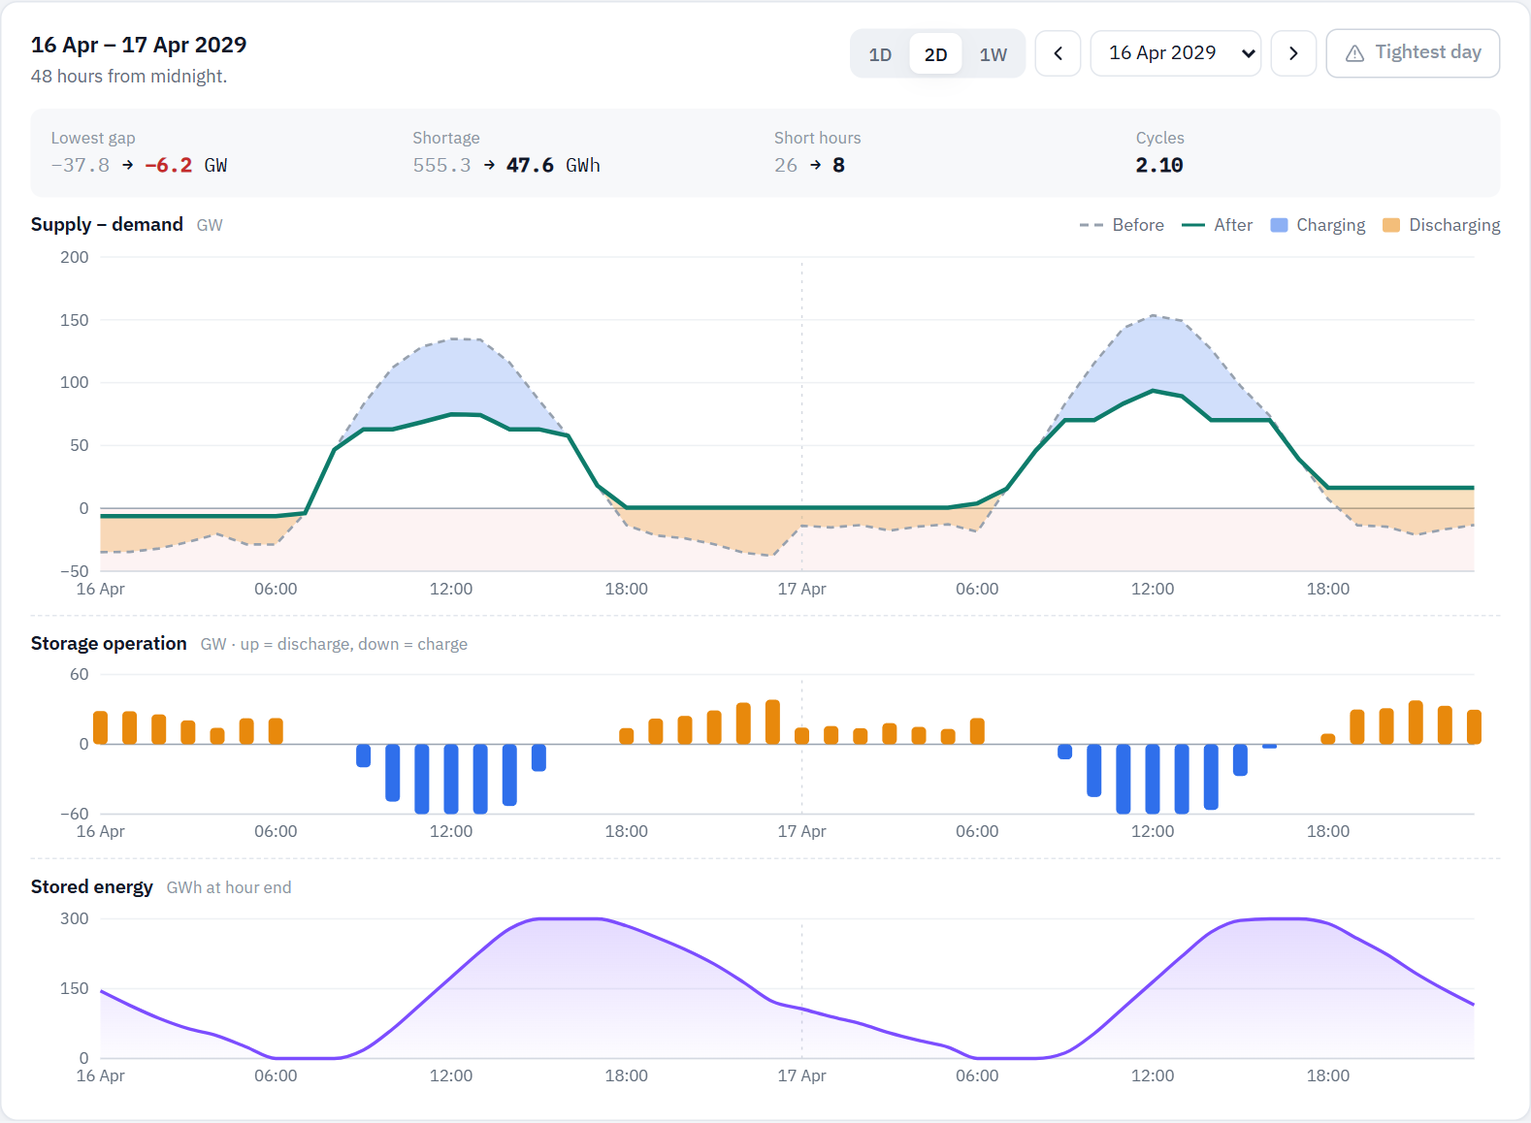
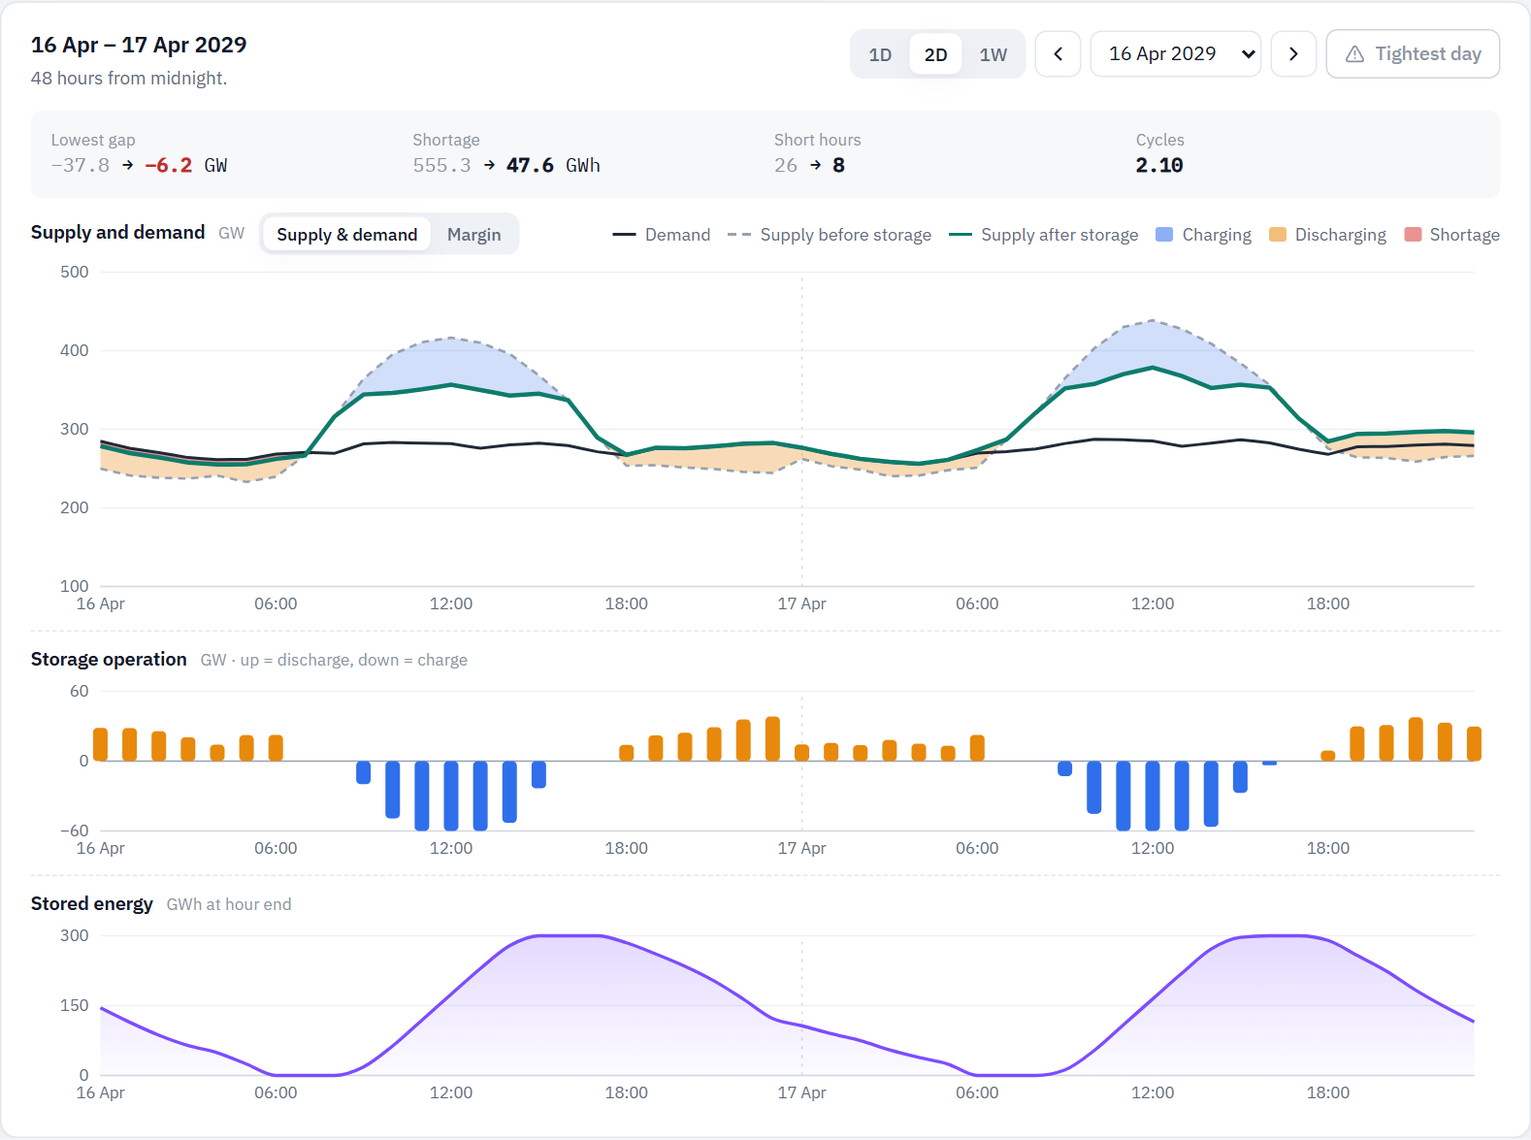
Show supply and demand directly in the hourly chart
The top hourly chart plotted the supply − demand margin but labelled its
lines "Before" and "After", which read as supply, and a faint red shortage
zone below zero blended with the orange discharge band.

It now defaults to a "Supply & demand" view: demand, available supply
before storage, supply after storage, blue/orange bands for charging and
discharging, and red only where supply after storage is still below
demand. The margin view stays one click away, clearly labelled, with the
zero line explained in the title instead of a tint. One tooltip gives
demand, supply before, storage action, supply after and the margin. The
duration curve drops its tint and is labelled as a margin too.

diff --git a/frontend/src/components/DayDetail.tsx b/frontend/src/components/DayDetail.tsx
@@ -1,16 +1,20 @@
 import { ChevronLeft, ChevronRight, TriangleAlert } from "lucide-react";
 import { memo, useEffect, useMemo, useState } from "react";
 import {
-  Area, Bar, CartesianGrid, Cell, ComposedChart, Line, ReferenceArea, ReferenceLine,
+  Area, Bar, CartesianGrid, Cell, ComposedChart, Line, ReferenceLine,
   ResponsiveContainer, Tooltip, XAxis, YAxis,
 } from "recharts";
-import { residualPoints } from "../chartData";
+import { levelPoints, residualPoints } from "../chartData";
 import { dayLabel, num, shortDay } from "../format";
 import { WINDOW_OPTIONS, clampStart, tightestDate, windowRows, type WindowDays } from "../timeWindow";
 import type { HourlyResult, RunResult } from "../types";
 
 const MARGIN = { top: 10, right: 18, left: 0, bottom: 0 };
 const MORPH_MS = 650;
+
+export type GapView = "levels" | "margin";
+
+type Scale = { domain: [number, number]; ticks: number[] };
 
 function useMedia(query: string) {
   const [matches, setMatches] = useState(() => window.matchMedia(query).matches);
@@ -70,9 +74,14 @@ function HourTooltip({ active, label, rows, kind }: {
       <strong>{dayLabel(row.timestamp.slice(0, 10))} · {row.timestamp.slice(11, 16)}</strong>
       {kind === "gap" ? (
         <>
-          <div><span><i className="line-key is-before" />Before storage</span><b>{num(row.raw_gap_gw, 2)} GW</b></div>
-          <div><span><i className="line-key is-after" />After storage</span><b>{num(row.residual_gap_gw, 2)} GW</b></div>
-          <div className="tooltip-sub"><span>Demand · supply</span><b>{num(row.demand_gw, 1)} · {num(row.supply_gw, 1)} GW</b></div>
+          <div><span><i className="line-key is-demand" />Demand</span><b>{num(row.demand_gw, 1)} GW</b></div>
+          <div><span><i className="line-key is-before" />Supply before storage</span><b>{num(row.supply_gw, 1)} GW</b></div>
+          <div><span><i className={`dot-key ${row.dispatch_gw < 0 ? "is-charge" : "is-discharge"}`} />
+            {row.dispatch_gw < -1e-6 ? "Storage charging" : row.dispatch_gw > 1e-6 ? "Storage discharging" : "Storage idle"}</span>
+            <b>{row.dispatch_gw < -1e-6 ? "−" : row.dispatch_gw > 1e-6 ? "+" : ""}{num(Math.abs(row.dispatch_gw), 1)} GW</b></div>
+          <div><span><i className="line-key is-after" />Supply after storage</span><b>{num(row.adjusted_supply_gw, 1)} GW</b></div>
+          <div className="tooltip-sub"><span>Margin (supply − demand)</span>
+            <b><span className="was">{num(row.raw_gap_gw, 1)}</span> → <span className={row.residual_gap_gw < -1e-6 ? "negative" : ""}>{num(row.residual_gap_gw, 1)}</span> GW</b></div>
         </>
       ) : kind === "dispatch" ? (
         <div><span><i className={`dot-key ${row.dispatch_gw < 0 ? "is-charge" : "is-discharge"}`} />{row.dispatch_gw < 0 ? "Charging" : row.dispatch_gw > 0 ? "Discharging" : "Idle"}</span>
@@ -89,13 +98,14 @@ function HourTooltip({ active, label, rows, kind }: {
  * a given window length, so stepping between dates morphs the lines, bands
  * and bars from one period to the next instead of redrawing them.
  */
-const WindowCharts = memo(function WindowCharts({ rows, days, result, gapScale }: {
-  rows: HourlyResult[]; days: WindowDays; result: RunResult; gapScale: { domain: [number, number]; ticks: number[] };
+const WindowCharts = memo(function WindowCharts({ rows, days, result, view, onView, gapScale, levelScale }: {
+  rows: HourlyResult[]; days: WindowDays; result: RunResult; view: GapView; onView: (view: GapView) => void;
+  gapScale: Scale; levelScale: Scale;
 }) {
-  const gapDomain = gapScale.domain;
   const reduced = useReducedMotion();
   const narrow = useMedia("(max-width: 640px)");
   const residual = useMemo(() => residualPoints(rows), [rows]);
+  const levels = useMemo(() => levelPoints(rows), [rows]);
   const hourly = useMemo(() => rows.map((row, hour) => ({ ...row, hour })), [rows]);
   const every = (days === 1 ? 3 : days === 2 ? 6 : 24) * (narrow && days !== 7 ? 2 : 1);
   const ticks = hourly.filter((_, index) => index % every === 0).map((row) => row.hour);
@@ -124,28 +134,60 @@ const WindowCharts = memo(function WindowCharts({ rows, days, result, gapScale }
     <div className="day-charts">
       <div className="lane">
         <div className="lane-head">
-          <h4>Supply − demand <small>GW</small></h4>
-          <div className="legend-inline" aria-hidden="true">
-            <span><i className="line-key is-before" />Before</span>
-            <span><i className="line-key is-after" />After</span>
-            <span><i className="band-key is-charge" />Charging</span>
-            <span><i className="band-key is-discharge" />Discharging</span>
+          <div className="lane-title">
+            <h4>{view === "levels" ? "Supply and demand" : "Margin"} <small>{view === "levels" ? "GW" : "supply − demand, GW · below 0 is a shortage"}</small></h4>
+            <div className="segmented is-small" role="tablist" aria-label="Top chart">
+              <button type="button" role="tab" aria-selected={view === "levels"} onClick={() => onView("levels")}>Supply &amp; demand</button>
+              <button type="button" role="tab" aria-selected={view === "margin"} onClick={() => onView("margin")}>Margin</button>
+            </div>
           </div>
+          {view === "levels" ? (
+            <div className="legend-inline" aria-hidden="true">
+              <span><i className="line-key is-demand" />Demand</span>
+              <span><i className="line-key is-before" />Supply before storage</span>
+              <span><i className="line-key is-after" />Supply after storage</span>
+              <span><i className="band-key is-charge" />Charging</span>
+              <span><i className="band-key is-discharge" />Discharging</span>
+              <span><i className="band-key is-shortage" />Shortage</span>
+            </div>
+          ) : (
+            <div className="legend-inline" aria-hidden="true">
+              <span><i className="line-key is-before" />Margin before storage</span>
+              <span><i className="line-key is-after" />Margin after storage</span>
+              <span><i className="band-key is-charge" />Charging</span>
+              <span><i className="band-key is-discharge" />Discharging</span>
+            </div>
+          )}
         </div>
         <ResponsiveContainer width="100%" height={250}>
-          <ComposedChart data={residual} {...common}>
-            <CartesianGrid stroke="var(--grid)" vertical={false} />
-            {gapDomain[0] < 0 ? <ReferenceArea y1={gapDomain[0]} y2={0} fill="var(--c-deficit)" fillOpacity={0.06} /> : null}
-            {dayLines}
-            <XAxis {...xAxis} />
-            <YAxis {...yAxis} domain={gapDomain} ticks={gapScale.ticks} allowDataOverflow />
-            <ReferenceLine y={0} stroke="var(--axis-strong)" />
-            <Area type="linear" dataKey="chargingBand" fill="var(--c-charge)" fillOpacity={0.22} stroke="none" activeDot={false} {...motion} />
-            <Area type="linear" dataKey="dischargingBand" fill="var(--c-discharge)" fillOpacity={0.26} stroke="none" activeDot={false} {...motion} />
-            <Line type="linear" dataKey="raw_gap_gw" stroke="var(--c-before)" strokeWidth={1.75} strokeDasharray="5 4" dot={false} activeDot={{ r: 4 }} {...motion} />
-            <Line type="linear" dataKey="residual_gap_gw" stroke="var(--c-after)" strokeWidth={3} dot={false} activeDot={{ r: 5, stroke: "var(--surface)", strokeWidth: 2 }} {...motion} />
-            <Tooltip content={<HourTooltip rows={rows} kind="gap" />} cursor={cursor} />
-          </ComposedChart>
+          {view === "levels" ? (
+            <ComposedChart data={levels} {...common}>
+              <CartesianGrid stroke="var(--grid)" vertical={false} />
+              {dayLines}
+              <XAxis {...xAxis} />
+              <YAxis {...yAxis} domain={levelScale.domain} ticks={levelScale.ticks} allowDataOverflow />
+              <Area type="linear" dataKey="chargingBand" fill="var(--c-charge)" fillOpacity={0.22} stroke="none" activeDot={false} {...motion} />
+              <Area type="linear" dataKey="dischargingBand" fill="var(--c-discharge)" fillOpacity={0.3} stroke="none" activeDot={false} {...motion} />
+              <Area type="linear" dataKey="shortageBand" fill="var(--c-deficit)" fillOpacity={0.55} stroke="none" activeDot={false} {...motion} />
+              <Line type="linear" dataKey="supply_gw" stroke="var(--c-before)" strokeWidth={1.75} strokeDasharray="5 4" dot={false} activeDot={{ r: 4 }} {...motion} />
+              <Line type="linear" dataKey="demand_gw" stroke="var(--c-demand)" strokeWidth={2} dot={false} activeDot={{ r: 4 }} {...motion} />
+              <Line type="linear" dataKey="adjusted_supply_gw" stroke="var(--c-after)" strokeWidth={3} dot={false} activeDot={{ r: 5, stroke: "var(--surface)", strokeWidth: 2 }} {...motion} />
+              <Tooltip content={<HourTooltip rows={rows} kind="gap" />} cursor={cursor} />
+            </ComposedChart>
+          ) : (
+            <ComposedChart data={residual} {...common}>
+              <CartesianGrid stroke="var(--grid)" vertical={false} />
+              {dayLines}
+              <XAxis {...xAxis} />
+              <YAxis {...yAxis} domain={gapScale.domain} ticks={gapScale.ticks} allowDataOverflow />
+              <ReferenceLine y={0} stroke="var(--axis-strong)" strokeWidth={1.5} />
+              <Area type="linear" dataKey="chargingBand" fill="var(--c-charge)" fillOpacity={0.22} stroke="none" activeDot={false} {...motion} />
+              <Area type="linear" dataKey="dischargingBand" fill="var(--c-discharge)" fillOpacity={0.3} stroke="none" activeDot={false} {...motion} />
+              <Line type="linear" dataKey="raw_gap_gw" stroke="var(--c-before)" strokeWidth={1.75} strokeDasharray="5 4" dot={false} activeDot={{ r: 4 }} {...motion} />
+              <Line type="linear" dataKey="residual_gap_gw" stroke="var(--c-after)" strokeWidth={3} dot={false} activeDot={{ r: 5, stroke: "var(--surface)", strokeWidth: 2 }} {...motion} />
+              <Tooltip content={<HourTooltip rows={rows} kind="gap" />} cursor={cursor} />
+            </ComposedChart>
+          )}
         </ResponsiveContainer>
       </div>
 
@@ -212,6 +254,16 @@ export function DayDetail({ result, dates, start, days, onStart, onDays }: {
     }
     return niceScale(low, high);
   }, [result.hourly]);
+  const levelScale = useMemo(() => {
+    let low = Infinity;
+    let high = -Infinity;
+    for (const row of result.hourly) {
+      low = Math.min(low, row.demand_gw, row.supply_gw, row.adjusted_supply_gw);
+      high = Math.max(high, row.demand_gw, row.supply_gw, row.adjusted_supply_gw);
+    }
+    return niceScale(low, high);
+  }, [result.hourly]);
+  const [view, setView] = useState<GapView>("levels");
   const index = dates.indexOf(start);
   const last = Math.max(0, dates.length - days);
   const eta = Math.sqrt(result.storage.rte);
@@ -264,7 +316,7 @@ export function DayDetail({ result, dates, start, days, onStart, onDays }: {
         <div><dt>Short hours</dt><dd><span className="was">{stats.hoursBefore}</span> → <b>{stats.hoursAfter}</b></dd></div>
         <div><dt>Cycles</dt><dd><b>{num(stats.cycles, 2)}</b></dd></div>
       </dl>
-      <WindowCharts rows={rows} days={days} result={result} gapScale={gapScale} />
+      <WindowCharts rows={rows} days={days} result={result} view={view} onView={setView} gapScale={gapScale} levelScale={levelScale} />
     </section>
   );
 }

diff --git a/frontend/src/chartData.ts b/frontend/src/chartData.ts
@@ -1,7 +1,7 @@
 import type { HourlyResult } from "./types";
 
 export type ResidualPoint = {
-  /** Position within the plotted day: 0 = first hour (06:00 on an accounting day). */
+  /** Position within the plotted window: 0 = the first hour. */
   hour: number;
   raw_gap_gw: number;
   residual_gap_gw: number;
@@ -9,30 +9,78 @@ export type ResidualPoint = {
   dischargingBand: [number, number];
 };
 
-function point(hour: number, before: number, after: number): ResidualPoint {
+export type LevelPoint = {
+  hour: number;
+  demand_gw: number;
+  supply_gw: number;
+  adjusted_supply_gw: number;
+  chargingBand: [number, number];
+  dischargingBand: [number, number];
+  /** Between supply after storage and demand, where supply still falls short. */
+  shortageBand: [number, number];
+};
+
+function bands(before: number, after: number) {
   return {
-    hour, raw_gap_gw: before, residual_gap_gw: after,
-    chargingBand: after < before ? [after, before] : [before, before],
-    dischargingBand: after > before ? [before, after] : [before, before],
+    chargingBand: (after < before ? [after, before] : [before, before]) as [number, number],
+    dischargingBand: (after > before ? [before, after] : [before, before]) as [number, number],
   };
 }
 
-export function residualPoints(rows: HourlyResult[]): ResidualPoint[] {
-  const points: ResidualPoint[] = [];
+/**
+ * Hourly vertices plus one extra vertex per segment: at the exact point where
+ * storage switches between charging and discharging (so the blue and orange
+ * bands meet without overlapping), otherwise at the midpoint. The constant
+ * point count lets charts morph smoothly between windows of equal length.
+ * Extra vertices are for drawing only; tooltips always read the hourly rows.
+ */
+function withCrossings<T>(
+  rows: HourlyResult[],
+  change: (row: HourlyResult) => number,
+  make: (hour: number, row: HourlyResult, next: HourlyResult | undefined, fraction: number, crossing: boolean) => T,
+): T[] {
+  const points: T[] = [];
   rows.forEach((row, hour) => {
-    points.push(point(hour, row.raw_gap_gw, row.residual_gap_gw));
+    points.push(make(hour, row, undefined, 0, false));
     const next = rows[hour + 1];
     if (!next) return;
-    const delta = row.residual_gap_gw - row.raw_gap_gw;
-    const nextDelta = next.residual_gap_gw - next.raw_gap_gw;
+    const delta = change(row);
+    const nextDelta = change(next);
     const crossing = delta * nextDelta < 0;
-    const fraction = crossing ? delta / (delta - nextDelta) : 0.5;
-    const before = row.raw_gap_gw + fraction * (next.raw_gap_gw - row.raw_gap_gw);
-    const after = crossing ? before : row.residual_gap_gw + fraction * (next.residual_gap_gw - row.residual_gap_gw);
-    // An exact crossing splits the two colours without overlap. A midpoint on
-    // other segments keeps the same point count for smooth day-to-day morphs.
-    // These are drawing vertices only; tooltips always use actual hourly data.
-    points.push(point(hour + fraction, before, after));
+    points.push(make(hour, row, next, crossing ? delta / (delta - nextDelta) : 0.5, crossing));
   });
   return points;
+}
+
+const lerp = (a: number, b: number, t: number) => a + t * (b - a);
+
+/** Supply − demand margin before and after storage. */
+export function residualPoints(rows: HourlyResult[]): ResidualPoint[] {
+  return withCrossings(rows, (row) => row.residual_gap_gw - row.raw_gap_gw, (hour, row, next, fraction, crossing) => {
+    if (!next) {
+      return { hour, raw_gap_gw: row.raw_gap_gw, residual_gap_gw: row.residual_gap_gw, ...bands(row.raw_gap_gw, row.residual_gap_gw) };
+    }
+    const before = lerp(row.raw_gap_gw, next.raw_gap_gw, fraction);
+    const after = crossing ? before : lerp(row.residual_gap_gw, next.residual_gap_gw, fraction);
+    return { hour: hour + fraction, raw_gap_gw: before, residual_gap_gw: after, ...bands(before, after) };
+  });
+}
+
+/** Demand, supply before storage and supply after storage, in GW. */
+export function levelPoints(rows: HourlyResult[]): LevelPoint[] {
+  return withCrossings(rows, (row) => row.adjusted_supply_gw - row.supply_gw, (hour, row, next, fraction, crossing) => {
+    const at = (key: "demand_gw" | "supply_gw" | "adjusted_supply_gw") =>
+      next ? lerp(row[key], next[key], fraction) : row[key];
+    const demand = at("demand_gw");
+    const before = at("supply_gw");
+    const after = crossing ? before : at("adjusted_supply_gw");
+    return {
+      hour: hour + fraction,
+      demand_gw: demand,
+      supply_gw: before,
+      adjusted_supply_gw: after,
+      ...bands(before, after),
+      shortageBand: after < demand ? [after, demand] : [demand, demand],
+    };
+  });
 }

diff --git a/frontend/src/components/DurationCurve.tsx b/frontend/src/components/DurationCurve.tsx
@@ -1,6 +1,6 @@
 import { useMemo } from "react";
 import {
-  Area, CartesianGrid, ComposedChart, Line, ReferenceArea, ReferenceLine,
+  Area, CartesianGrid, ComposedChart, Line, ReferenceLine,
   ResponsiveContainer, Tooltip, XAxis, YAxis,
 } from "recharts";
 import { num } from "../format";
@@ -27,18 +27,17 @@ export function DurationCurve({ hourly }: { hourly: HourlyResult[] }) {
   const hours = hourly.length;
   const shortBefore = hourly.filter((row) => row.raw_gap_gw < -1e-6).length;
   const shortAfter = hourly.filter((row) => row.residual_gap_gw < -1e-6).length;
-  const low = Math.min(points[points.length - 1].before, points[points.length - 1].after);
 
   return (
     <section className="panel" aria-labelledby="duration-title">
       <header className="panel-head">
         <div>
           <h3 id="duration-title">Duration curve</h3>
-          <p>Every hour sorted from largest surplus to deepest shortage.</p>
+          <p>Supply − demand margin for every hour, sorted from largest surplus to deepest shortage. Below 0 is a shortage.</p>
         </div>
         <div className="legend-inline" aria-hidden="true">
-          <span><i className="line-key is-before" />Before</span>
-          <span><i className="line-key is-after" />After</span>
+          <span><i className="line-key is-before" />Before storage</span>
+          <span><i className="line-key is-after" />After storage</span>
         </div>
       </header>
       <div className="duration-callouts">
@@ -56,13 +55,12 @@ export function DurationCurve({ hourly }: { hourly: HourlyResult[] }) {
             </linearGradient>
           </defs>
           <CartesianGrid stroke="var(--grid)" vertical={false} />
-          {low < 0 ? <ReferenceArea y1={low * 1.08} y2={0} fill="var(--c-deficit)" fillOpacity={0.07} ifOverflow="extendDomain" /> : null}
           <XAxis dataKey="share" type="number" domain={[0, 100]} ticks={[0, 25, 50, 75, 100]}
             tickFormatter={(value: number) => `${value}%`} tick={{ fontSize: 11, fill: "var(--muted)" }}
             axisLine={{ stroke: "var(--axis)" }} tickLine={false} />
           <YAxis width={48} tick={{ fontSize: 11, fill: "var(--muted)" }} tickFormatter={(value: number) => num(value, 0)}
             axisLine={false} tickLine={false} domain={["auto", "auto"]} tickCount={6} />
-          <ReferenceLine y={0} stroke="var(--axis-strong)" />
+          <ReferenceLine y={0} stroke="var(--axis-strong)" strokeWidth={1.5} />
           <Area type="monotone" dataKey="after" stroke="none" fill="url(#duration-after)" isAnimationActive={false} />
           <Line type="monotone" dataKey="before" stroke="var(--c-before)" strokeWidth={1.75} strokeDasharray="5 4" dot={false} isAnimationActive={false} />
           <Line type="monotone" dataKey="after" stroke="var(--c-after)" strokeWidth={2.5} dot={false} isAnimationActive={false} />
@@ -74,8 +72,8 @@ export function DurationCurve({ hourly }: { hourly: HourlyResult[] }) {
               return (
                 <div className="chart-tooltip">
                   <strong>{num(point.share, 1)}% of hours at or above</strong>
-                  <div><span><i className="line-key is-before" />Before</span><b>{num(point.before, 2)} GW</b></div>
-                  <div><span><i className="line-key is-after" />After</span><b>{num(point.after, 2)} GW</b></div>
+                  <div><span><i className="line-key is-before" />Margin before storage</span><b>{num(point.before, 2)} GW</b></div>
+                  <div><span><i className="line-key is-after" />Margin after storage</span><b>{num(point.after, 2)} GW</b></div>
                 </div>
               );
             }}

diff --git a/frontend/src/styles.css b/frontend/src/styles.css
@@ -22,6 +22,7 @@
   --warn: #9a5b00;
 
   --c-before: #97a1ae;
+  --c-demand: #1f2937;
   --c-after: #0e7c6b;
   --c-charge: #2f6feb;
   --c-discharge: #e8890c;
@@ -63,6 +64,7 @@
     --warn-soft: rgba(255, 165, 58, 0.12);
     --warn: #ffb35c;
     --c-before: #7b8594;
+    --c-demand: #e7ecf2;
     --c-after: #2dbe9f;
     --c-charge: #5b93ff;
     --c-discharge: #ffa53a;
@@ -99,6 +101,7 @@
   --warn-soft: rgba(255, 165, 58, 0.12);
   --warn: #ffb35c;
   --c-before: #7b8594;
+  --c-demand: #e7ecf2;
   --c-after: #2dbe9f;
   --c-charge: #5b93ff;
   --c-discharge: #ffa53a;
@@ -371,9 +374,11 @@ button:disabled { cursor: not-allowed; }
 .legend-inline span { display: inline-flex; align-items: center; gap: 6px; }
 .line-key { display: inline-block; width: 16px; height: 0; border-top: 2.5px solid var(--c-after); }
 .line-key.is-before { border-top: 2px dashed var(--c-before); }
+.line-key.is-demand { border-top: 2px solid var(--c-demand); }
 .band-key { display: inline-block; width: 12px; height: 10px; border-radius: 2px; opacity: 0.55; }
 .band-key.is-charge { background: var(--c-charge); }
 .band-key.is-discharge { background: var(--c-discharge); }
+.band-key.is-shortage { background: var(--c-deficit); }
 .dot-key { display: inline-block; width: 9px; height: 9px; border-radius: 50%; }
 .dot-key.is-charge { background: var(--c-charge); }
 .dot-key.is-discharge { background: var(--c-discharge); }
@@ -553,6 +558,9 @@ button:disabled { cursor: not-allowed; }
 .lane + .lane { margin-top: 6px; padding-top: 10px; border-top: 1px dashed var(--border); }
 .lane-head { display: flex; align-items: center; justify-content: space-between; gap: 12px; margin-bottom: 2px; }
 .lane-head h4 { font-size: 13px; font-weight: 600; }
+.lane-title { display: flex; align-items: center; gap: 10px; flex-wrap: wrap; }
+.segmented.is-small button { padding: 3px 9px; font-size: 12px; }
+.lane-head { flex-wrap: wrap; }
 .lane-head h4 small { margin-left: 6px; color: var(--faint); font-size: 11.5px; font-weight: 400; }
 
 /* ---------------------------------------------------------------------------

diff --git a/README.md b/README.md
@@ -25,8 +25,10 @@ with evening and night deficits in red:
 
 ![Heatmap of supply minus demand for every hour of the year](docs/heatmap.png)
 
-Hourly detail for one day, two days or a week, midnight to midnight, showing the
-gap before and after storage, charging and discharging, and stored energy:
+Hourly detail for one day, two days or a week, midnight to midnight: demand and
+available supply before and after storage (with charging, discharging and any
+remaining shortage shaded), storage operation and stored energy. A toggle
+switches the top chart to the supply − demand margin:
 
 ![Two days of supply minus demand, storage operation and stored energy](docs/hourly-detail.png)
 
